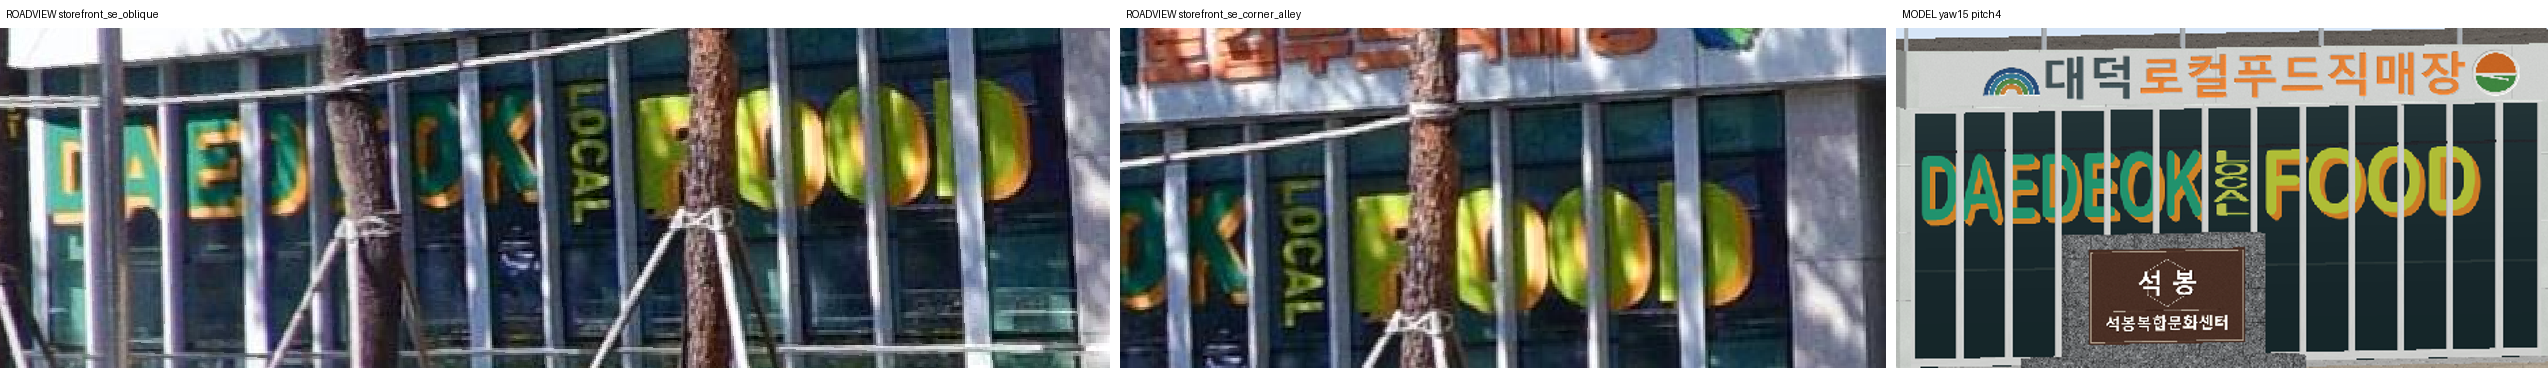
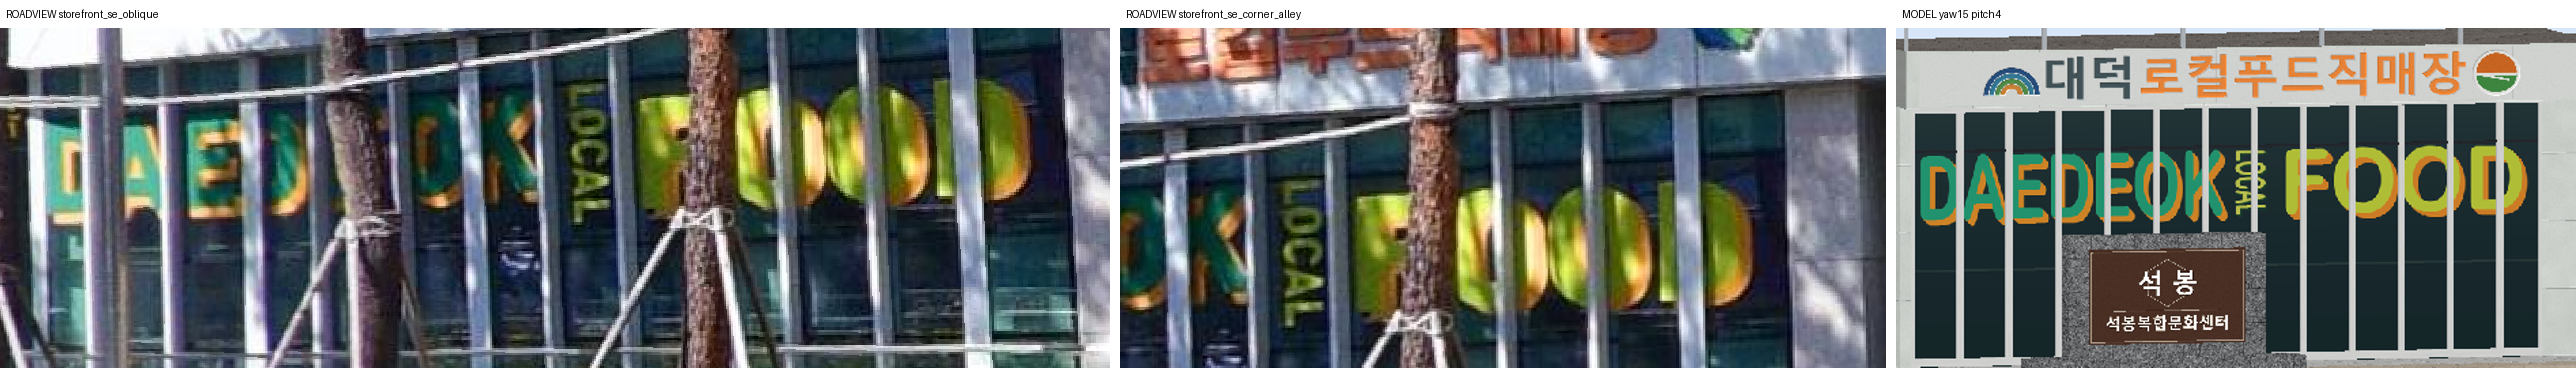
석봉센터 로컬푸드 유리 글자: LOCAL 눕힘, FOOD 동쪽 끝까지
- LOCAL 을 시계 방향 90°로 눕혀 위에서 아래로 읽히게 (실물: 가운데 C 가 아래로 열림)
- 무지 유리로 비워 두던 동쪽 끝 칸까지 그래픽을 13칸 전체로 펼쳐
  DAEDEOK 이 덜 눌리고 FOOD 의 D 가 마지막 칸까지 들어가게 함 (se_corner_alley)

diff --git a/cs2-kit/projects/seokbong-welfare-center/seokbong_welfare_center_cs2.py b/cs2-kit/projects/seokbong-welfare-center/seokbong_welfare_center_cs2.py
@@ -55,7 +55,7 @@ _SIGN_CACHE_DIR = os.path.join(os.path.dirname(os.path.abspath(__file__)), "work
 # 표지석(2.4 x 1.4 m = 1.714:1)은 576x288 칸 왼쪽 494x288 활성 영역만 사용해 비율 정확도 0.6% 이내 유지
 _SIGN_ACTIVE_W = {
     "sign_monolith": 494,
-    "storefront_glass": 672,
+    "storefront_glass": 719,
 }
 
 
@@ -300,11 +300,13 @@ def _paint_storefront_glass(ctx):
         # 실물 시트지: 둥근 굵은 고딕(Arial Rounded MT Bold 계열) + 오른쪽 아래로 밀린 주황 입체 그림자
         font_round = [r"C:\Windows\Fonts\ARLRDBD.TTF"] + FONT_EN
 
-        def put(label, x0, x1, y0, y1, fill, shadow, shadow_k=0.085):
+        def put(label, x0, x1, y0, y1, fill, shadow, shadow_k=0.085, rotate=False):
             big = _fit_font(drw, font_round, label, 10 ** 6, 400)
             bx, by, tw, th = _text_metrics(drw, label, big)
             fl = Image.new("L", (tw, th))
             ImageDraw.Draw(fl).text((-bx, -by), label, font=big, fill=255)
+            if rotate:   # 시계 방향 90°: 위에서 아래로 읽힘
+                fl = fl.transpose(Image.Transpose.ROTATE_270)
             size = (round(x1 - x0), round(y1 - y0))
             fl = fl.resize(size, Image.Resampling.LANCZOS)
             off = round((y1 - y0) * shadow_k)
@@ -318,17 +320,13 @@ def _paint_storefront_glass(ctx):
 
         # 로드뷰 storefront_se_oblique·se_corner_alley·사용자 남동 사진 실측:
         #   글자 높이 약 1.0 m(통창 3.86 m 의 26%), 상단은 통창 위 가로대(Z 3.31) 바로 아래 → v 0.19~0.44
-        #   DAEDEOK 은 1~6.5번째 칸(청록 초록 + 주황 그림자), LOCAL 은 한 칸에 바로 선 글자 5개를 세로로 쌓음,
-        #   FOOD 는 8~12번째 칸(연두 노랑 + 주황 그림자, O 는 거의 원형)
+        #   그래픽은 통창 13칸 전체(9.64 m)에 걸친다: FOOD 의 D 가 동쪽 마지막 칸까지 들어감 (se_corner_alley)
+        #   DAEDEOK 은 왼쪽 절반(청록 초록 + 주황 그림자), LOCAL 은 시계 방향으로 눕혀 위→아래로 읽는 한 줄
+        #   (가운데 C 가 아래로 열림), FOOD 는 연두 노랑 + 주황 그림자로 동쪽 끝 칸까지
         y0, y1 = h * 0.19, h * 0.44
-        put("DAEDEOK", w * 0.015, w * 0.50, y0, y1, (38, 166, 124), (232, 148, 44))
-        put("FOOD", w * 0.595, w * 0.965, y0, y1, (198, 214, 62), (230, 140, 42))
-        # LOCAL 칸은 큰 글자 폭의 약 0.6배, 위아래로 큰 글자 높이를 다 쓴다 (se_corner_alley)
-        lx0, lx1 = w * 0.514, w * 0.578
-        step = (y1 - y0) / 5
-        for i, ch_ in enumerate("LOCAL"):
-            put(ch_, lx0, lx1, y0 + i * step + step * 0.04, y0 + (i + 1) * step - step * 0.04,
-                (206, 214, 86), (30, 70, 50), shadow_k=0.10)
+        put("DAEDEOK", w * 0.012, w * 0.50, y0, y1, (38, 166, 124), (232, 148, 44))
+        put("LOCAL", w * 0.515, w * 0.563, y0, y1, (206, 214, 86), (30, 70, 50), shadow_k=0.03, rotate=True)
+        put("FOOD", w * 0.585, w * 0.975, y0, y1, (198, 214, 62), (230, 140, 42))
         mask2.paste(letters)
 
     _render_sign_cell(ctx, "storefront_glass", (24, 43, 47), paint_2x,
@@ -1780,15 +1778,8 @@ def build_south_ramp_and_entrance(mb, A, wins, stage):
     _box_var(mb, 24.80, 25.01, gy, 10.16, 0.14, 4.05, "white_panel", variant=2, skip=("bottom",))
     _box_var(mb, 25.01, 25.50, 7.25, 8.85, 0.14, 4.05, "white_panel", variant=4, skip=("bottom",))
     _box_var(mb, 25.50, 25.95, 7.25, 8.85, 0.00, 4.05, "white_panel", variant=4, skip=("bottom",))
-    _sign_quad(mb, A, K.face_pts("y", gy, -1, gx0, gx_text, 0.14, 4.00), "storefront_glass")
-    A.layout()
-    cx, cy, cw, ch = A.cells["storefront_glass"]["rect"]
-    S, aw = float(A.size), _SIGN_ACTIVE_W["storefront_glass"]
-    bu0 = (cx + aw + 4.0) / S if cw > aw + 8 else (cx + aw - 5.0) / S
-    bu1 = (cx + cw - 4.0) / S if cw > aw + 8 else (cx + aw - 2.0) / S
-    bv0, bv1 = 1.0 - (cy + ch - 1.5) / S, 1.0 - (cy + 1.5) / S
-    mb.quad(K.face_pts("y", gy, -1, gx_text, gx1, 0.14, 4.00),
-            [(bu0, bv0), (bu1, bv0), (bu1, bv1), (bu0, bv1)], "storefront_glass")
+    # 유리 그래픽은 13칸 전체(gx0..gx1)에 한 장으로 붙인다 (active_w = 288 px × 9.64/3.86)
+    _sign_quad(mb, A, K.face_pts("y", gy, -1, gx0, gx1, 0.14, 4.00), "storefront_glass")
     mb.rect(K.face_pts("y", 10.16, 1, gx0, gx1, 0.14, 4.00), "spandrel_dark")
     mb.box(gx0, gx0 + 0.055, gy - 0.09, gy - 0.01, 0.27, 3.90, "louver_white", skip=("bottom", "top"))
     for i in range(1, 13):
